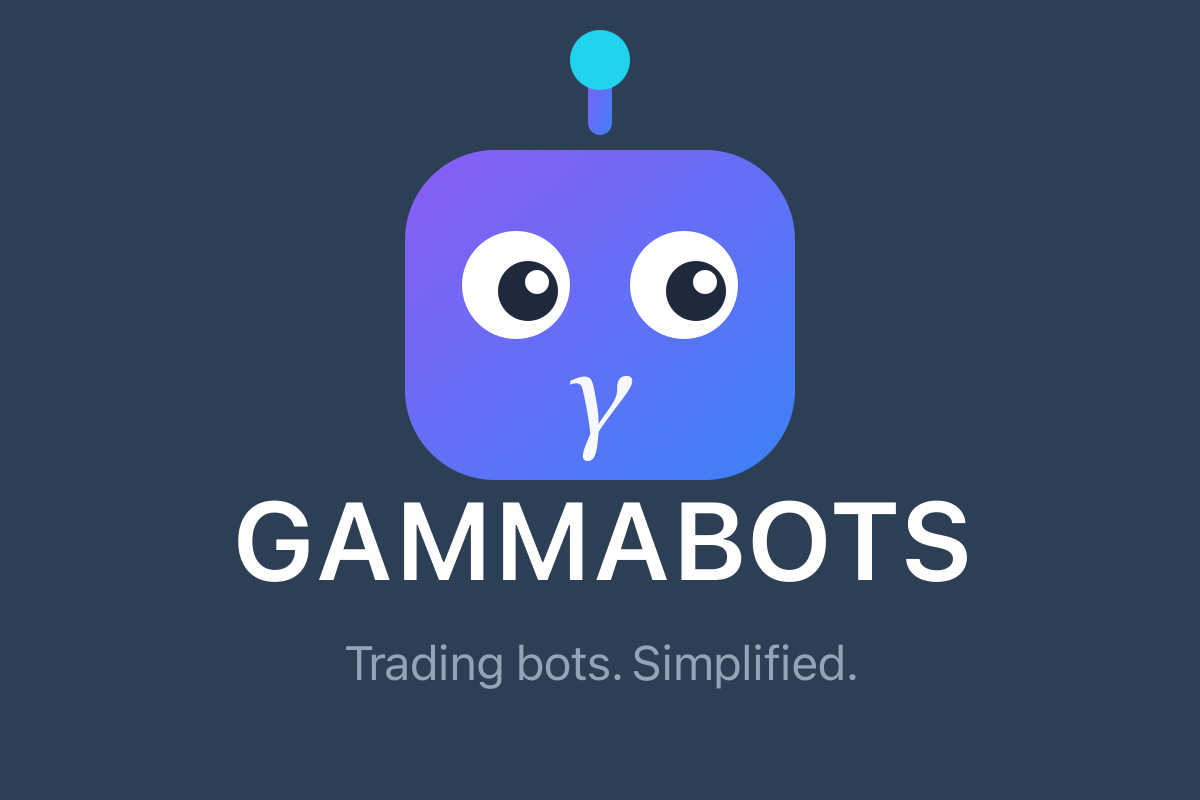
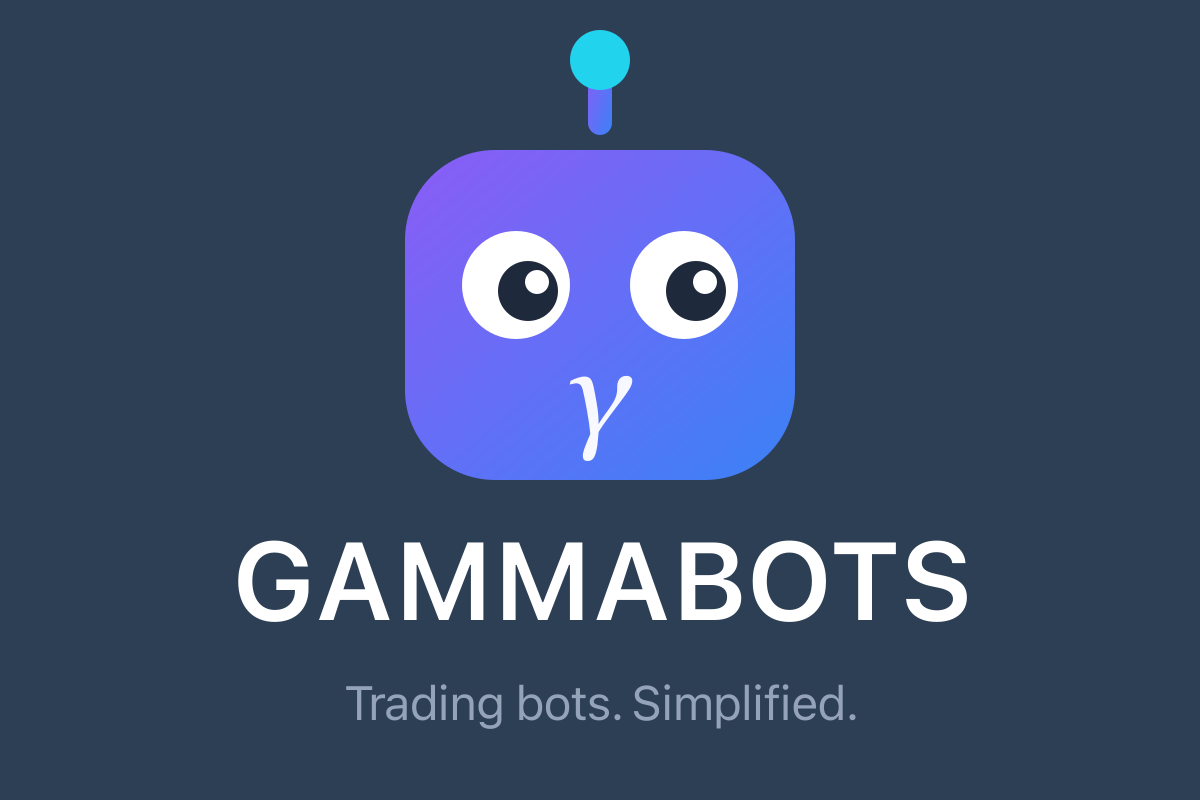
Update manifest descriptions and preview image spacing
- Add subtitle field to farcaster.json
- Update description to fuller tagline
- Add more vertical space between robot and text in preview image

Changed region(s): [[0.185, 0.625, 0.8017, 0.9062]]

diff --git a/src/app/layout.tsx b/src/app/layout.tsx
@@ -10,11 +10,11 @@ const inter = Inter({
 });
 
 export const metadata: Metadata = {
-  title: "Gammabots - Trading Bot Platform",
-  description: "Trading Bots Made Easy - Create and manage automated trading bots on Farcaster",
+  title: "Gammabots",
+  description: "Deploy automated trading bots in seconds. Choose a strategy, fund your bot, and let it trade for you.",
   openGraph: {
-    title: "Gammabots - Trading Bot Platform",
-    description: "Trading Bots Made Easy - Create and manage automated trading bots on Farcaster",
+    title: "Gammabots",
+    description: "Deploy automated trading bots in seconds. Choose a strategy, fund your bot, and let it trade for you.",
   },
   other: {
     "fc:miniapp": JSON.stringify({
